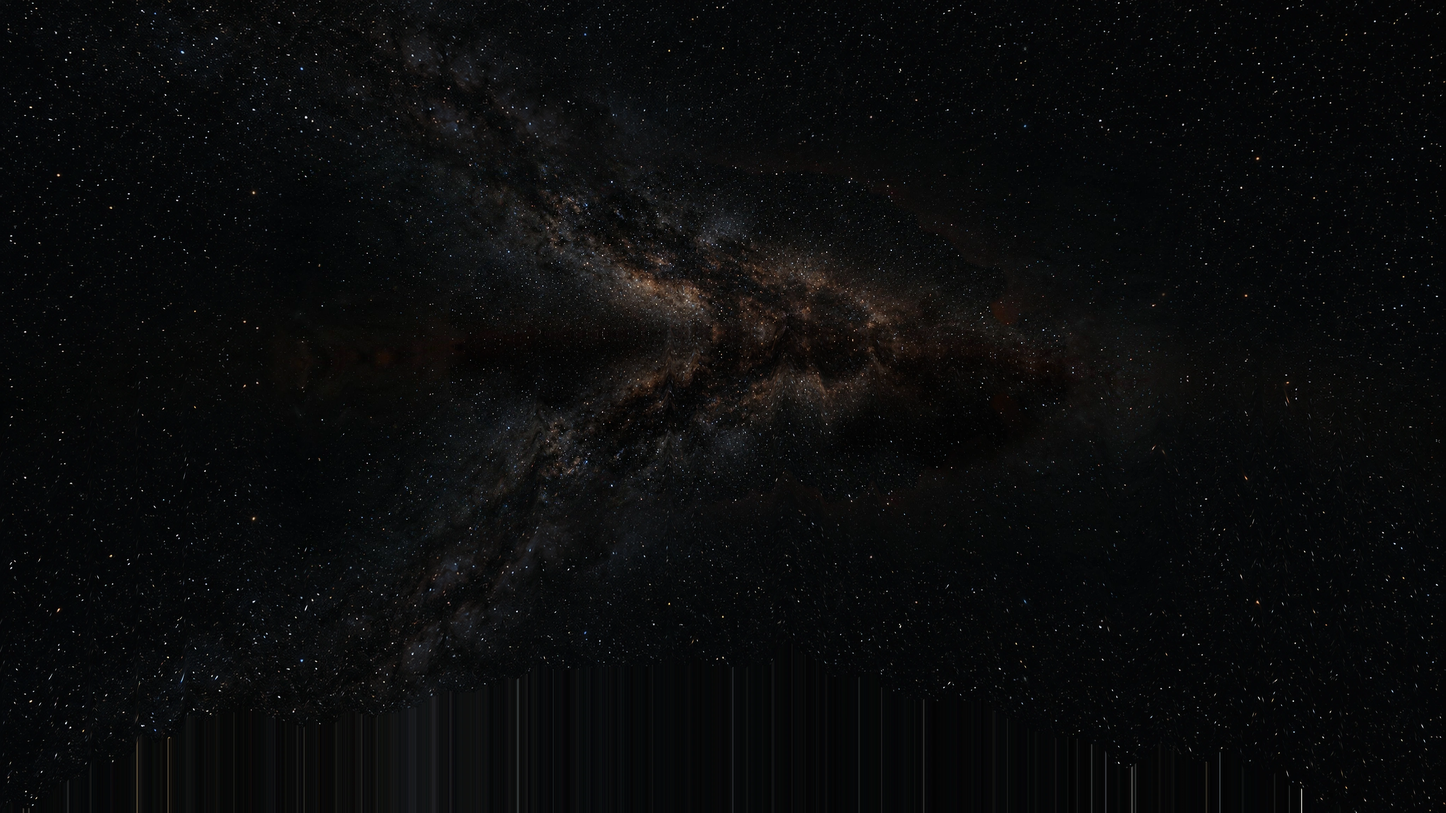
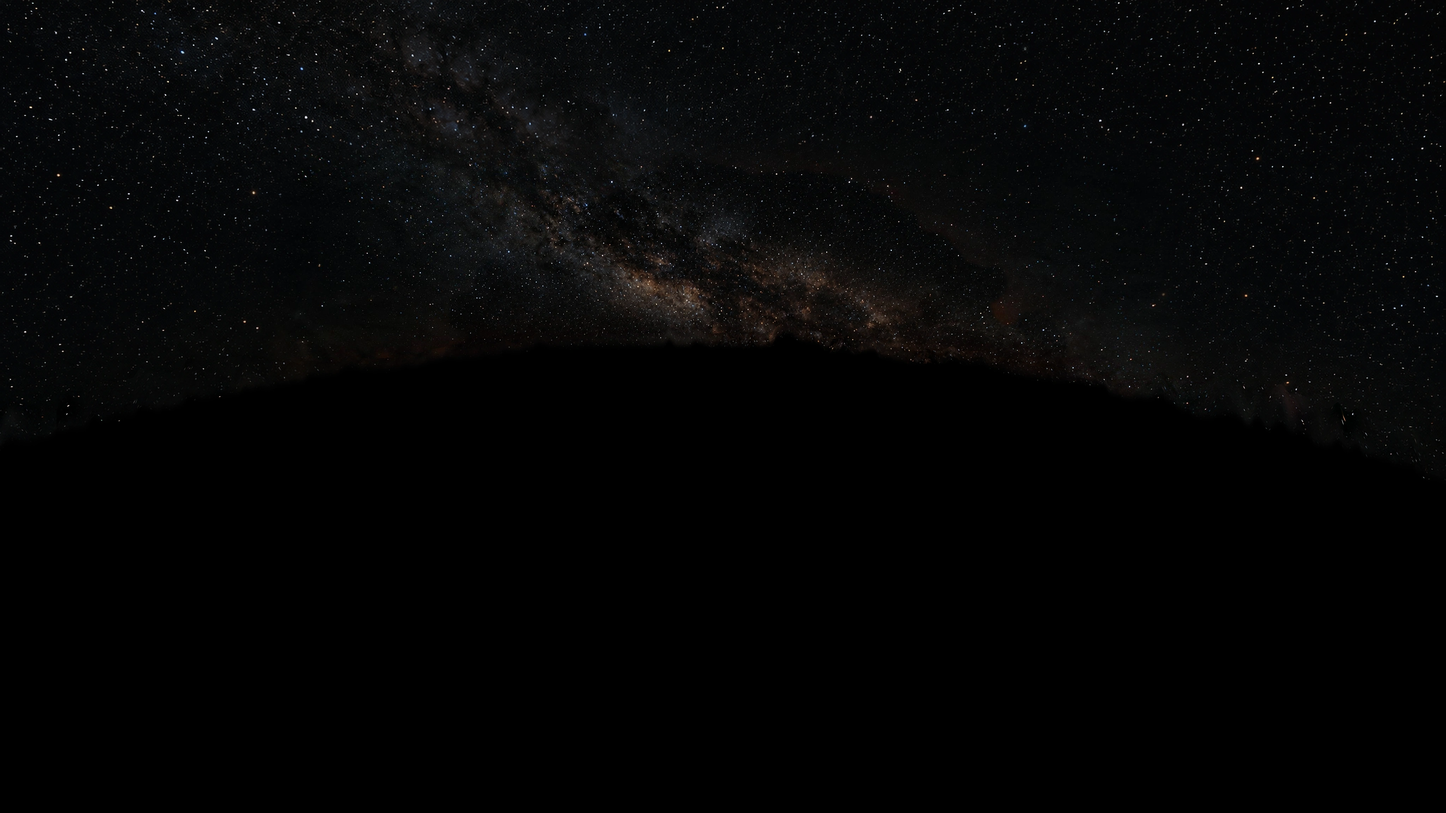
Sun: engine sky clock flag replaces the stop's own sky lock, terrain sky card without mirrored stars and with a near limb factor, far band of the ground left ungraded

Changed region(s): [[0.2812, 0.4062, 0.625, 1.0], [0.125, 0.8125, 0.1562, 0.8438]]

diff --git a/src/stops/sun/skycard.ts b/src/stops/sun/skycard.ts
@@ -5,14 +5,11 @@ import { INVERSE_FILMIC_GLSL } from '../../post/chain'
 const VERT = /* glsl */ `
 uniform vec2 uTan;
 uniform vec2 uShift;
-uniform mat3 uLock;
-uniform float uZoom;
 out vec2 vUv;
 out vec2 vScreen;
 void main() {
   vUv = uv;
-  vec3 d = uLock * (mat3(viewMatrix) * mat3(modelMatrix) * vec3(position.xy * uTan + uShift, -1.0));
-  d.xy *= uZoom;
+  vec3 d = mat3(viewMatrix) * mat3(modelMatrix) * vec3(position.xy * uTan + uShift, -1.0);
   gl_Position = projectionMatrix * vec4(d, 1.0);
   gl_Position.z = gl_Position.w * 0.999999;
   vScreen = gl_Position.xy / gl_Position.w;
@@ -60,7 +57,7 @@ export class SkyCard {
       fragmentShader: FRAG,
       uniforms: {
         uMap: { value: map }, uDiag: diagUniform, uTan: { value: new THREE.Vector2((t * 16) / 9, t) }, uShift: { value: new THREE.Vector2(def.centre?.[0] ?? 0, def.centre?.[1] ?? 0) },
-        uLock: { value: new THREE.Matrix3() }, uZoom: { value: 1 }, uGain: { value: 1 }, uWeight: { value: 1 }, uEdge: { value: def.edge ?? def.margin / wide }, uVignette: { value: 0 }, uAspect: { value: 16 / 9 },
+        uGain: { value: 1 }, uWeight: { value: 1 }, uEdge: { value: def.edge ?? def.margin / wide }, uVignette: { value: 0 }, uAspect: { value: 16 / 9 },
       },
       blending: THREE.CustomBlending,
       blendEquation: THREE.AddEquation,
@@ -74,12 +71,11 @@ export class SkyCard {
     this.mesh = new THREE.Mesh(new THREE.PlaneGeometry(2, 2), this.material)
     this.mesh.renderOrder = -10
     this.mesh.frustumCulled = false
+    this.mesh.userData.skyClock = true
   }
 
-  update(weight: number, exposure: number, vignette: number, aspect: number, lock: THREE.Matrix4, zoom: number): void {
+  update(weight: number, exposure: number, vignette: number, aspect: number): void {
     const u = this.material.uniforms
-    ;(u.uLock!.value as THREE.Matrix3).setFromMatrix4(lock)
-    u.uZoom!.value = zoom
     u.uWeight!.value = weight
     u.uGain!.value = this.gain * exposure
     u.uVignette!.value = vignette

diff --git a/src/stops/sun/set.ts b/src/stops/sun/set.ts
@@ -57,9 +57,6 @@ export const createSet: SetFactory = async (ctx) => {
   const terrainMid = (plan.seg.terrain.start + plan.seg.terrain.end) / 2 + config.shutterFraction / (2 * config.fps)
   const eye = new THREE.Vector3()
   const turn = new THREE.Quaternion()
-  const lock = new THREE.Matrix4()
-  const held = new THREE.Quaternion()
-  const half = (deg: number): number => Math.tan(THREE.MathUtils.degToRad(deg) / 2)
 
   return {
     id: plan.id,
@@ -73,15 +70,8 @@ export const createSet: SetFactory = async (ctx) => {
       const vignette = shot.post.vignette
       const kind = state.segment.kind
       const shown = !inOrbit ? 0 : kind === 'travel' ? 1 - THREE.MathUtils.smoothstep(state.u, look.skyFade[0], look.skyFade[1]) : 1
-      const mid = (shot.frame + config.shutterFraction / 2) / config.fps
-      const now = view.samples > 1 && Math.abs(state.time - mid) > 1e-9 ? plan.seen(kind, state.time) : null
-      const then = now ? plan.seen(kind, mid) : null
-      held.identity()
-      if (now && then) held.copy(then.quaternion).invert().multiply(now.quaternion)
-      lock.makeRotationFromQuaternion(held)
-      const zoom = now && then ? half(now.vfov) / half(then.vfov) : 1
-      backdrop.update(shown, gain, vignette, aspect, lock, zoom)
-      backdropTerrain.update(inOrbit ? 0 : 1, gain, vignette, aspect, lock, zoom)
+      backdrop.update(shown, gain, vignette, aspect)
+      backdropTerrain.update(inOrbit ? 0 : 1, gain, vignette, aspect)
       const burst = kind === 'rise' ? flare.amount(state.time - coverAt) : 0
       flare.update(inOrbit ? spotAt.copy(kernelBody).applyQuaternion(plan.turn(state.time)) : kernel, world, view.camera, burst, kind === 'rise' ? flare.cover(state.time - coverAt) : 0, gain, aspect)
       if (!inOrbit) {

diff --git a/src/stops/sun/plan.ts b/src/stops/sun/plan.ts
@@ -160,14 +160,6 @@ export class SunPlan extends StopPlan {
     return time < this.switchTime ? { pose: this.local(path), view: 'terrain' } : { pose: path, view: 'orbit' }
   }
 
-  seen(kind: string, time: number): Pose | null {
-    const seg = this.seg
-    if (kind === 'rise') return this.path((time - seg.rise.start) / (seg.rise.end - seg.rise.start))
-    if (kind === 'hold') return this.hold(time - seg.hold.start)
-    if (kind === 'terrain') return this.terrain(time - seg.terrain.start)
-    return null
-  }
-
   override coverAmount(seg: Segment, time: number): number {
     const w = coverWindow(seg)
     if (!w) return 0

diff --git a/src/stops/sun/ground.ts b/src/stops/sun/ground.ts
@@ -142,7 +142,7 @@ void main() {
   vec2 gb = stImage(vStage);
   for (int k = 0; k < (limb > 0.0 ? 1 : 0); k++) {
     vec2 far = stImage(stLimbDir(ray, c1, el));
-    col = mix(col, inverseFilmic(grade(textureLod(uPlate, stPlate(far), uLod).rgb, 0.0)), limb);
+    col = mix(col, inverseFilmic(textureLod(uPlate, stPlate(far), uLod).rgb), limb);
     gb = mix(gb, far, limb);
   }
   gb = vec2((gb.x - uBox.x) / (uBox.z - uBox.x), 1.0 - (gb.y - uBox.y) / (uBox.w - uBox.y));

diff --git a/assets-src/sun/terrain/sky.py b/assets-src/sun/terrain/sky.py
@@ -4,7 +4,10 @@ import cv2
 from common import WORK, LEFT, TOP, SPAN, TY, write, display, step
 
 LINE = (2.1, 4.6)
-DIM = (0.55, 0.3, 3.0)
+NEAR = (0.9, 0.5, 1.7, 4.5)
+ARCH = 0.25
+SOFT = 24
+SHIFT = 160
 
 OUT = sys.argv[1] if len(sys.argv) > 1 else 'public/assets/sun'
 sky = np.load(f'{WORK}/sky-scene.npy')
@@ -20,13 +23,18 @@ mirror = 2 * line[None, :] - rows
 below = rows > line[None, :]
 src_y = np.where(below, np.clip(mirror, 0, h - 1), rows).astype(np.float32)
 src_x = np.repeat(np.arange(w, dtype=np.float32)[None, :], h, 0)
-out = cv2.remap(sky, src_x, src_y, cv2.INTER_LINEAR, borderMode=cv2.BORDER_REFLECT)
+low = cv2.GaussianBlur(sky, (0, 0), SOFT)
+moved = np.roll(sky - low, SHIFT, axis=1)
+far_y = np.where(below, np.clip(np.roll(line, SHIFT)[None, :] - (rows - line[None, :]), 0, h - 1), rows).astype(np.float32)
+fill = cv2.remap(low, src_x, src_y, cv2.INTER_LINEAR, borderMode=cv2.BORDER_REPLICATE) + cv2.remap(moved, src_x, far_y, cv2.INTER_LINEAR, borderMode=cv2.BORDER_REPLICATE)
+out = np.where(below[..., None], np.maximum(fill, 0), sky)
 mask = cv2.imread(f'{WORK}/loops-mask-wide.png', 0).astype(np.float32) / 255
 k = SPAN * mask.shape[1] / w
 inv = np.array([[k, 0, LEFT * mask.shape[1] + 0.5 * k - 0.5], [0, k, TOP * mask.shape[0] + 0.5 * k - 0.5]])
 mask = cv2.GaussianBlur(cv2.warpAffine(mask, inv, (w, h), flags=cv2.INTER_LINEAR | cv2.WARP_INVERSE_MAP), (0, 0), 20)
 deg = (edge[None, :] - rows) * 2 * np.degrees(np.arctan(TY * SPAN)) / h
-out *= (1 - DIM[0] * mask * (1 - step(deg, DIM[1], DIM[2])))[..., None]
+near = NEAR[0] * step(deg, NEAR[1], NEAR[2]) + (1 - NEAR[0]) * step(deg, NEAR[2], NEAR[3])
+out *= (near * (1 - ARCH * mask))[..., None]
 img = display(out)
 print('sky max', float(img.max()), 'mean', float(img.mean()))
 write(f'{OUT}/full/sky-terrain.webp', img, 95)

diff --git a/assets-src/sun/RECIPE.md b/assets-src/sun/RECIPE.md
@@ -134,7 +134,7 @@ Shared inputs:
 
 - Output: 4096 x 2304 and 2048 x 1152, WebP 95 and 92.
 - Tool: `PYTHONPATH=assets-src/sun/terrain python3 assets-src/sun/terrain/sky.py` after `plate.py` (no model, no prompt).
-- Steps: the canvas minus the plate (what is left above the horizon is stars and the Milky Way), mirrored about a line 2.1 deg (centre) to 4.6 deg (sides) above the limb so the card has no edge behind the limb, and dimmed by up to 0.55 inside the loop mask within 3 deg of the limb, where the mirrored fill was brighter than the approved sky.
+- Steps: the canvas minus the plate (what is left above the horizon is stars and the Milky Way). Below a line 2.1 deg (centre) to 4.6 deg (sides) above the limb the card is filled so it has no edge behind the limb: the low-pass (Gaussian, 24 px) is mirrored about the line and the fine detail (stars) is taken from 160 px to the side, so no star is mirrored. The whole card is then multiplied by a near limb factor (0 below 0.5 deg, 0.9 at 1.7 deg, 1 from 4.5 deg up) and by 1 minus 0.25 of the loop mask, because the set's own glow and flames already carry the light near the limb (measured on frame 90 against the approved in bands of elevation, `out/work/sun/skyband.py`).
 - Check: `out/work/sun/sky-terrain-check.jpg`, the limb crop of frame 90.
 
 ### src/stops/sun/terrain.json
